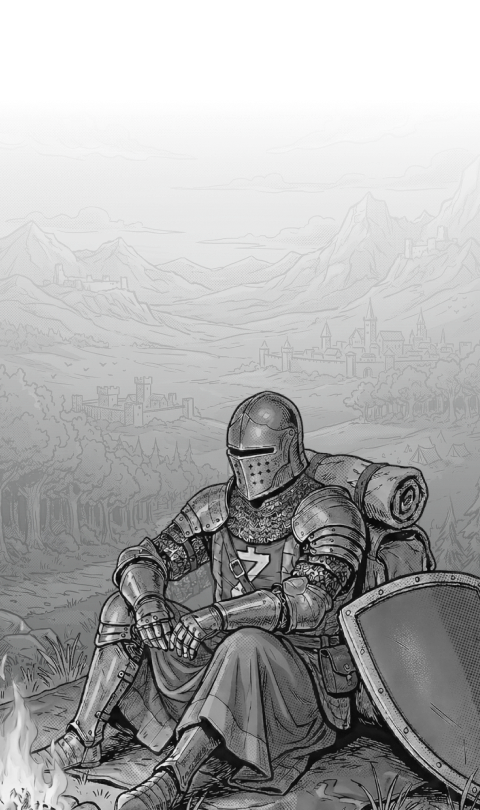
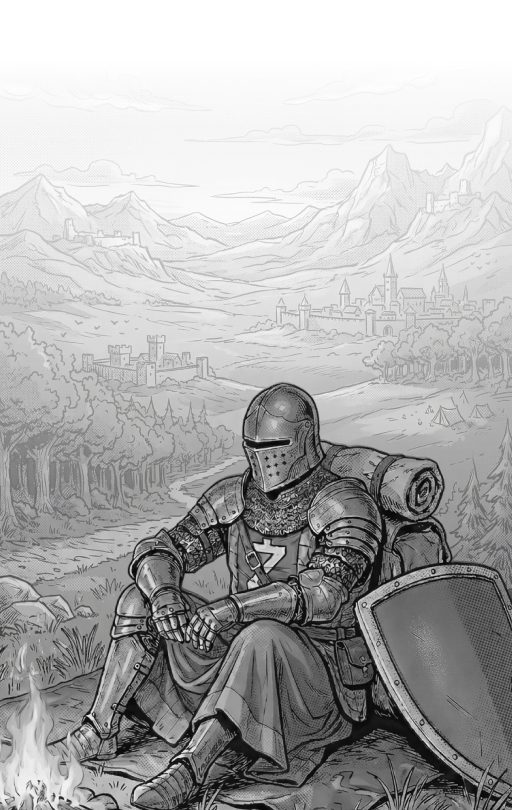
Redesign intro zcash screen

diff --git a/lib/src/features/onboarding/create/intro_zcash_screen.dart b/lib/src/features/onboarding/create/intro_zcash_screen.dart
@@ -1,10 +1,8 @@
 import 'package:flutter/widgets.dart';
-import 'package:flutter_svg/flutter_svg.dart';
 import 'package:go_router/go_router.dart';
 
 import '../../../core/theme/app_theme.dart';
 import '../../../core/widgets/app_button.dart';
-import '../../../core/widgets/app_decorative_divider.dart';
 import '../../../core/widgets/app_icon.dart';
 import 'onboarding_split_view.dart';
 
@@ -31,8 +29,9 @@ class _Content extends StatelessWidget {
     return const Column(
       children: [
         _BackRow(),
+        SizedBox(height: AppSpacing.xs),
         Expanded(
-          child: Center(child: SizedBox(width: 500, child: _HeroLayout())),
+          child: _HeroLayout(),
         ),
       ],
     );
@@ -50,10 +49,11 @@ class _BackRow extends StatelessWidget {
       child: GestureDetector(
         behavior: HitTestBehavior.opaque,
         onTap: () => context.go('/welcome'),
-        child: Padding(
-          padding: const EdgeInsets.symmetric(vertical: AppSpacing.xxs),
+        child: SizedBox(
+          height: 32,
           child: Row(
             mainAxisSize: MainAxisSize.min,
+            crossAxisAlignment: CrossAxisAlignment.center,
             children: [
               AppIcon(
                 AppIcons.chevronBackward,
@@ -78,13 +78,22 @@ class _BackRow extends StatelessWidget {
 class _HeroLayout extends StatelessWidget {
   const _HeroLayout();
 
+  static const double _contentWidth = 463;
+
   @override
   Widget build(BuildContext context) {
     return const Column(
       children: [
-        Expanded(child: Center(child: _HeroBlock())),
+        Expanded(
+          child: Padding(
+            padding: EdgeInsets.symmetric(vertical: AppSpacing.s),
+            child: Center(
+              child: SizedBox(width: _contentWidth, child: _HeroBlock()),
+            ),
+          ),
+        ),
+        SizedBox(height: AppSpacing.md),
         _ButtonStack(),
-        SizedBox(height: AppSpacing.s),
       ],
     );
   }
@@ -99,44 +108,27 @@ class _HeroBlock extends StatelessWidget {
     final bodyStyle = AppTypography.bodyMedium.copyWith(
       color: colors.text.primary,
     );
-    final subtitleStyle = AppTypography.bodyMedium.copyWith(
+    final subtitleStyle = AppTypography.bodyMediumStrong.copyWith(
       color: colors.text.accent,
     );
     return Column(
       mainAxisSize: MainAxisSize.min,
       crossAxisAlignment: CrossAxisAlignment.center,
       children: [
-        const _VizorLogo(),
-        const SizedBox(height: AppSpacing.s),
         Text(
           'The Shielded World',
-          style: AppTypography.displayMedium.copyWith(
+          style: AppTypography.displayLarge.copyWith(
             color: colors.text.accent,
           ),
           textAlign: TextAlign.center,
         ),
-        const SizedBox(height: AppSpacing.s),
-        Text.rich(
-          TextSpan(
-            style: subtitleStyle,
-            children: [
-              const TextSpan(text: 'Zcash (ZEC) built around '),
-              TextSpan(
-                text: 'financial privacy',
-                style: subtitleStyle.copyWith(fontWeight: FontWeight.w500),
-              ),
-              const TextSpan(text: ' & '),
-              TextSpan(
-                text: 'self-custody.',
-                style: subtitleStyle.copyWith(fontWeight: FontWeight.w500),
-              ),
-            ],
-          ),
+        const SizedBox(height: AppSpacing.sm),
+        Text(
+          'Zcash (ZEC) built around financial privacy & self-custody.',
+          style: subtitleStyle,
           textAlign: TextAlign.center,
         ),
-        const SizedBox(height: AppSpacing.s),
-        const AppDecorativeDivider(),
-        const SizedBox(height: AppSpacing.s),
+        const SizedBox(height: AppSpacing.lg),
         SizedBox(
           width: 384,
           child: Column(
@@ -148,7 +140,7 @@ class _HeroBlock extends StatelessWidget {
                 style: bodyStyle,
                 textAlign: TextAlign.center,
               ),
-              const SizedBox(height: AppSpacing.sm),
+              const SizedBox(height: AppSpacing.md),
               Text(
                 "You're a few steps away from your first private wallet.\n"
                 "Let's get you set up.",
@@ -159,26 +151,6 @@ class _HeroBlock extends StatelessWidget {
           ),
         ),
       ],
-    );
-  }
-}
-
-class _VizorLogo extends StatelessWidget {
-  const _VizorLogo();
-
-  @override
-  Widget build(BuildContext context) {
-    final colors = context.colors;
-    return SizedBox(
-      width: 56,
-      height: 28,
-      child: SvgPicture.asset(
-        'assets/icons/vizor_logo.svg',
-        colorFilter: ColorFilter.mode(
-          colors.text.brandCrimson,
-          BlendMode.srcIn,
-        ),
-      ),
     );
   }
 }
@@ -200,14 +172,14 @@ class _ButtonStack extends StatelessWidget {
           trailing: const AppIcon(AppIcons.chevronForward),
           child: const Text('Tell me how Zcash works'),
         ),
-        const SizedBox(height: AppSpacing.xs),
+        const SizedBox(height: AppSpacing.s),
         AppButton(
           onPressed: () =>
               context.go(OnboardingStep.secretPassphrase.routePath),
           variant: AppButtonVariant.ghost,
           minWidth: _buttonWidth,
           trailing: const AppIcon(AppIcons.skip),
-          child: const Text('Create New Wallet'),
+          child: const Text('I know how to use Zcash'),
         ),
       ],
     );

diff --git a/lib/src/features/onboarding/create/onboarding_split_view.dart b/lib/src/features/onboarding/create/onboarding_split_view.dart
@@ -86,6 +86,7 @@ class OnboardingSplitViewShell extends StatelessWidget {
     ).animate(entrance);
 
     return AppDesktopShell(
+      sidebarWidth: 256,
       sidebar: SlideTransition(
         position: sidebarOffset,
         child: _Sidebar(
@@ -187,13 +188,54 @@ class _SidebarNav extends StatelessWidget {
         crossAxisAlignment: CrossAxisAlignment.stretch,
         children: [
           for (var i = 0; i < _steps.length; i++) ...[
-            AppSidebarItem(
+            _OnboardingSidebarItem(
               label: _steps[i].label,
               iconName: _steps[i].iconName,
               active: _steps[i] == activeStep,
             ),
-            if (i != _steps.length - 1) const SizedBox(height: AppSpacing.xxs),
+            if (i != _steps.length - 1) const SizedBox(height: AppSpacing.xs),
           ],
+        ],
+      ),
+    );
+  }
+}
+
+class _OnboardingSidebarItem extends StatelessWidget {
+  const _OnboardingSidebarItem({
+    required this.label,
+    required this.iconName,
+    required this.active,
+  });
+
+  final String label;
+  final String iconName;
+  final bool active;
+
+  @override
+  Widget build(BuildContext context) {
+    final colors = context.colors;
+    return Container(
+      width: double.infinity,
+      decoration: BoxDecoration(
+        color: active ? colors.state.selectedOpacity : null,
+        borderRadius: BorderRadius.circular(AppRadii.xSmall),
+      ),
+      padding: const EdgeInsets.only(
+        left: AppSpacing.xs,
+        top: AppSpacing.xs,
+        bottom: AppSpacing.xs,
+      ),
+      child: Row(
+        children: [
+          AppIcon(iconName, size: 20, color: colors.icon.accent),
+          const SizedBox(width: AppSpacing.s),
+          Text(
+            label,
+            style: AppTypography.labelLarge.copyWith(
+              color: colors.text.accent,
+            ),
+          ),
         ],
       ),
     );
@@ -205,8 +247,8 @@ class _SidebarIllustration extends StatelessWidget {
 
   final OnboardingStep step;
 
-  static const _frameWidth = 240.0;
-  static const _frameHeight = 411.0;
+  static const _frameWidth = 256.0;
+  static const _frameHeight = 405.0;
 
   @override
   Widget build(BuildContext context) {